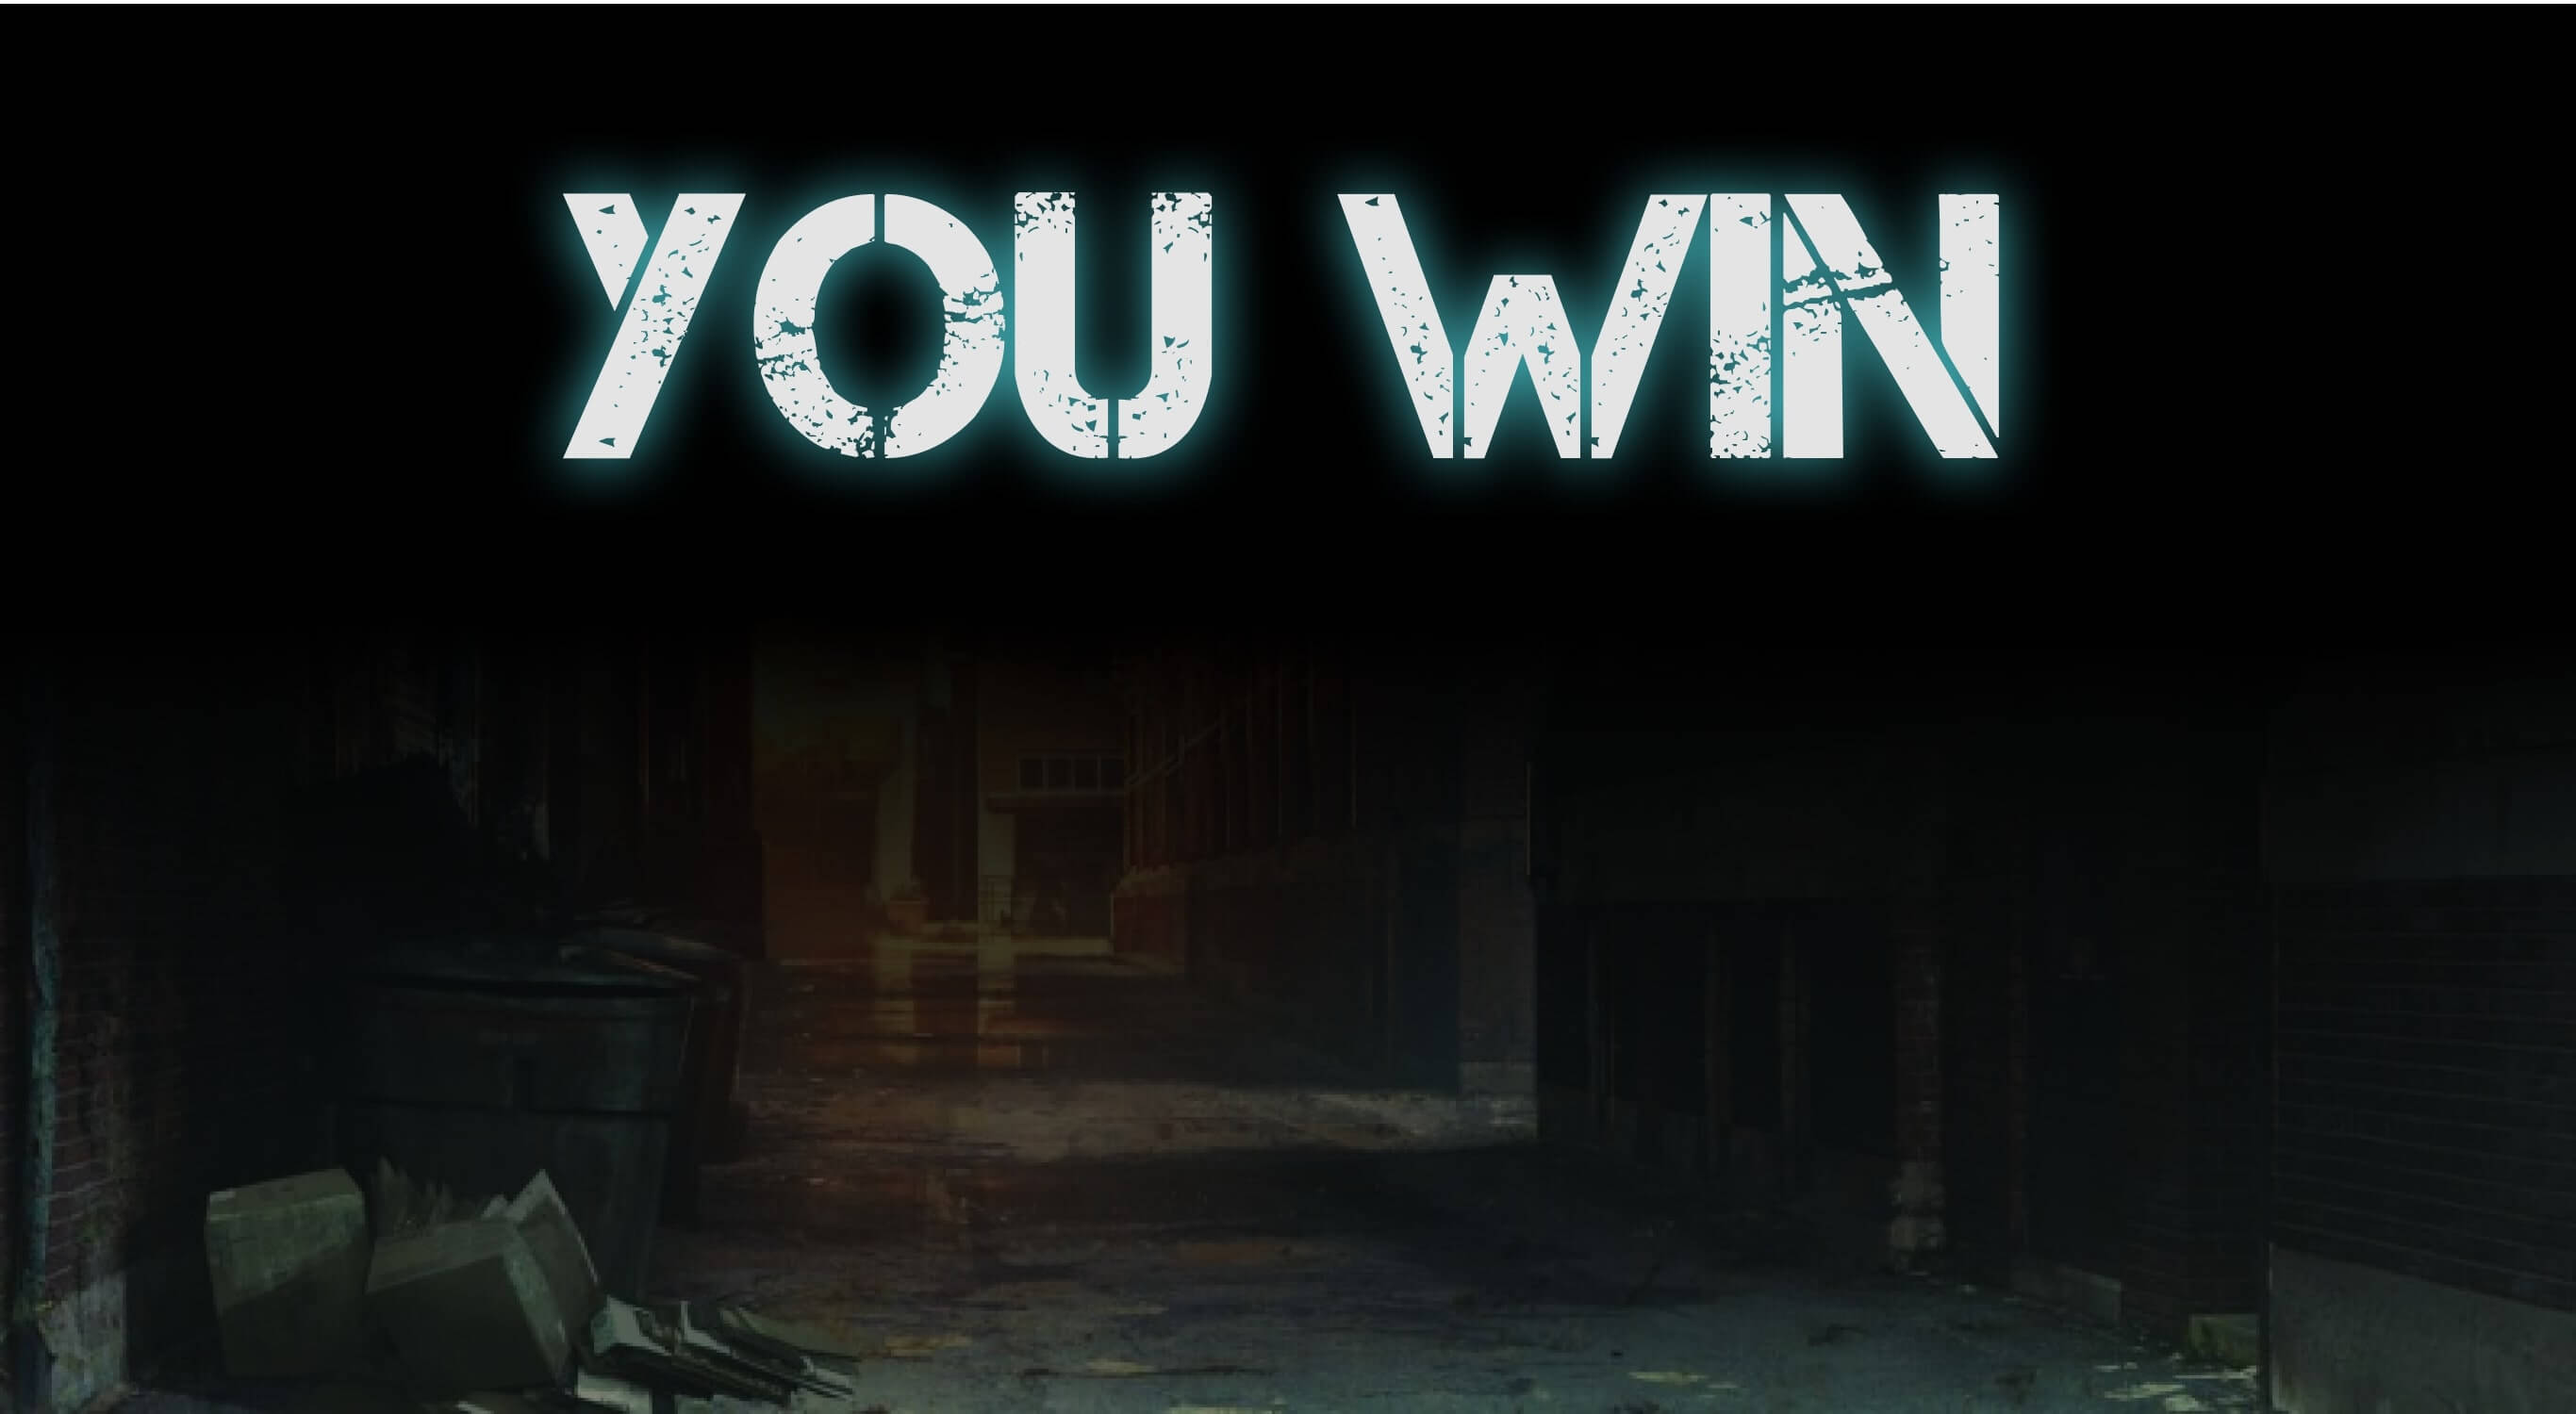
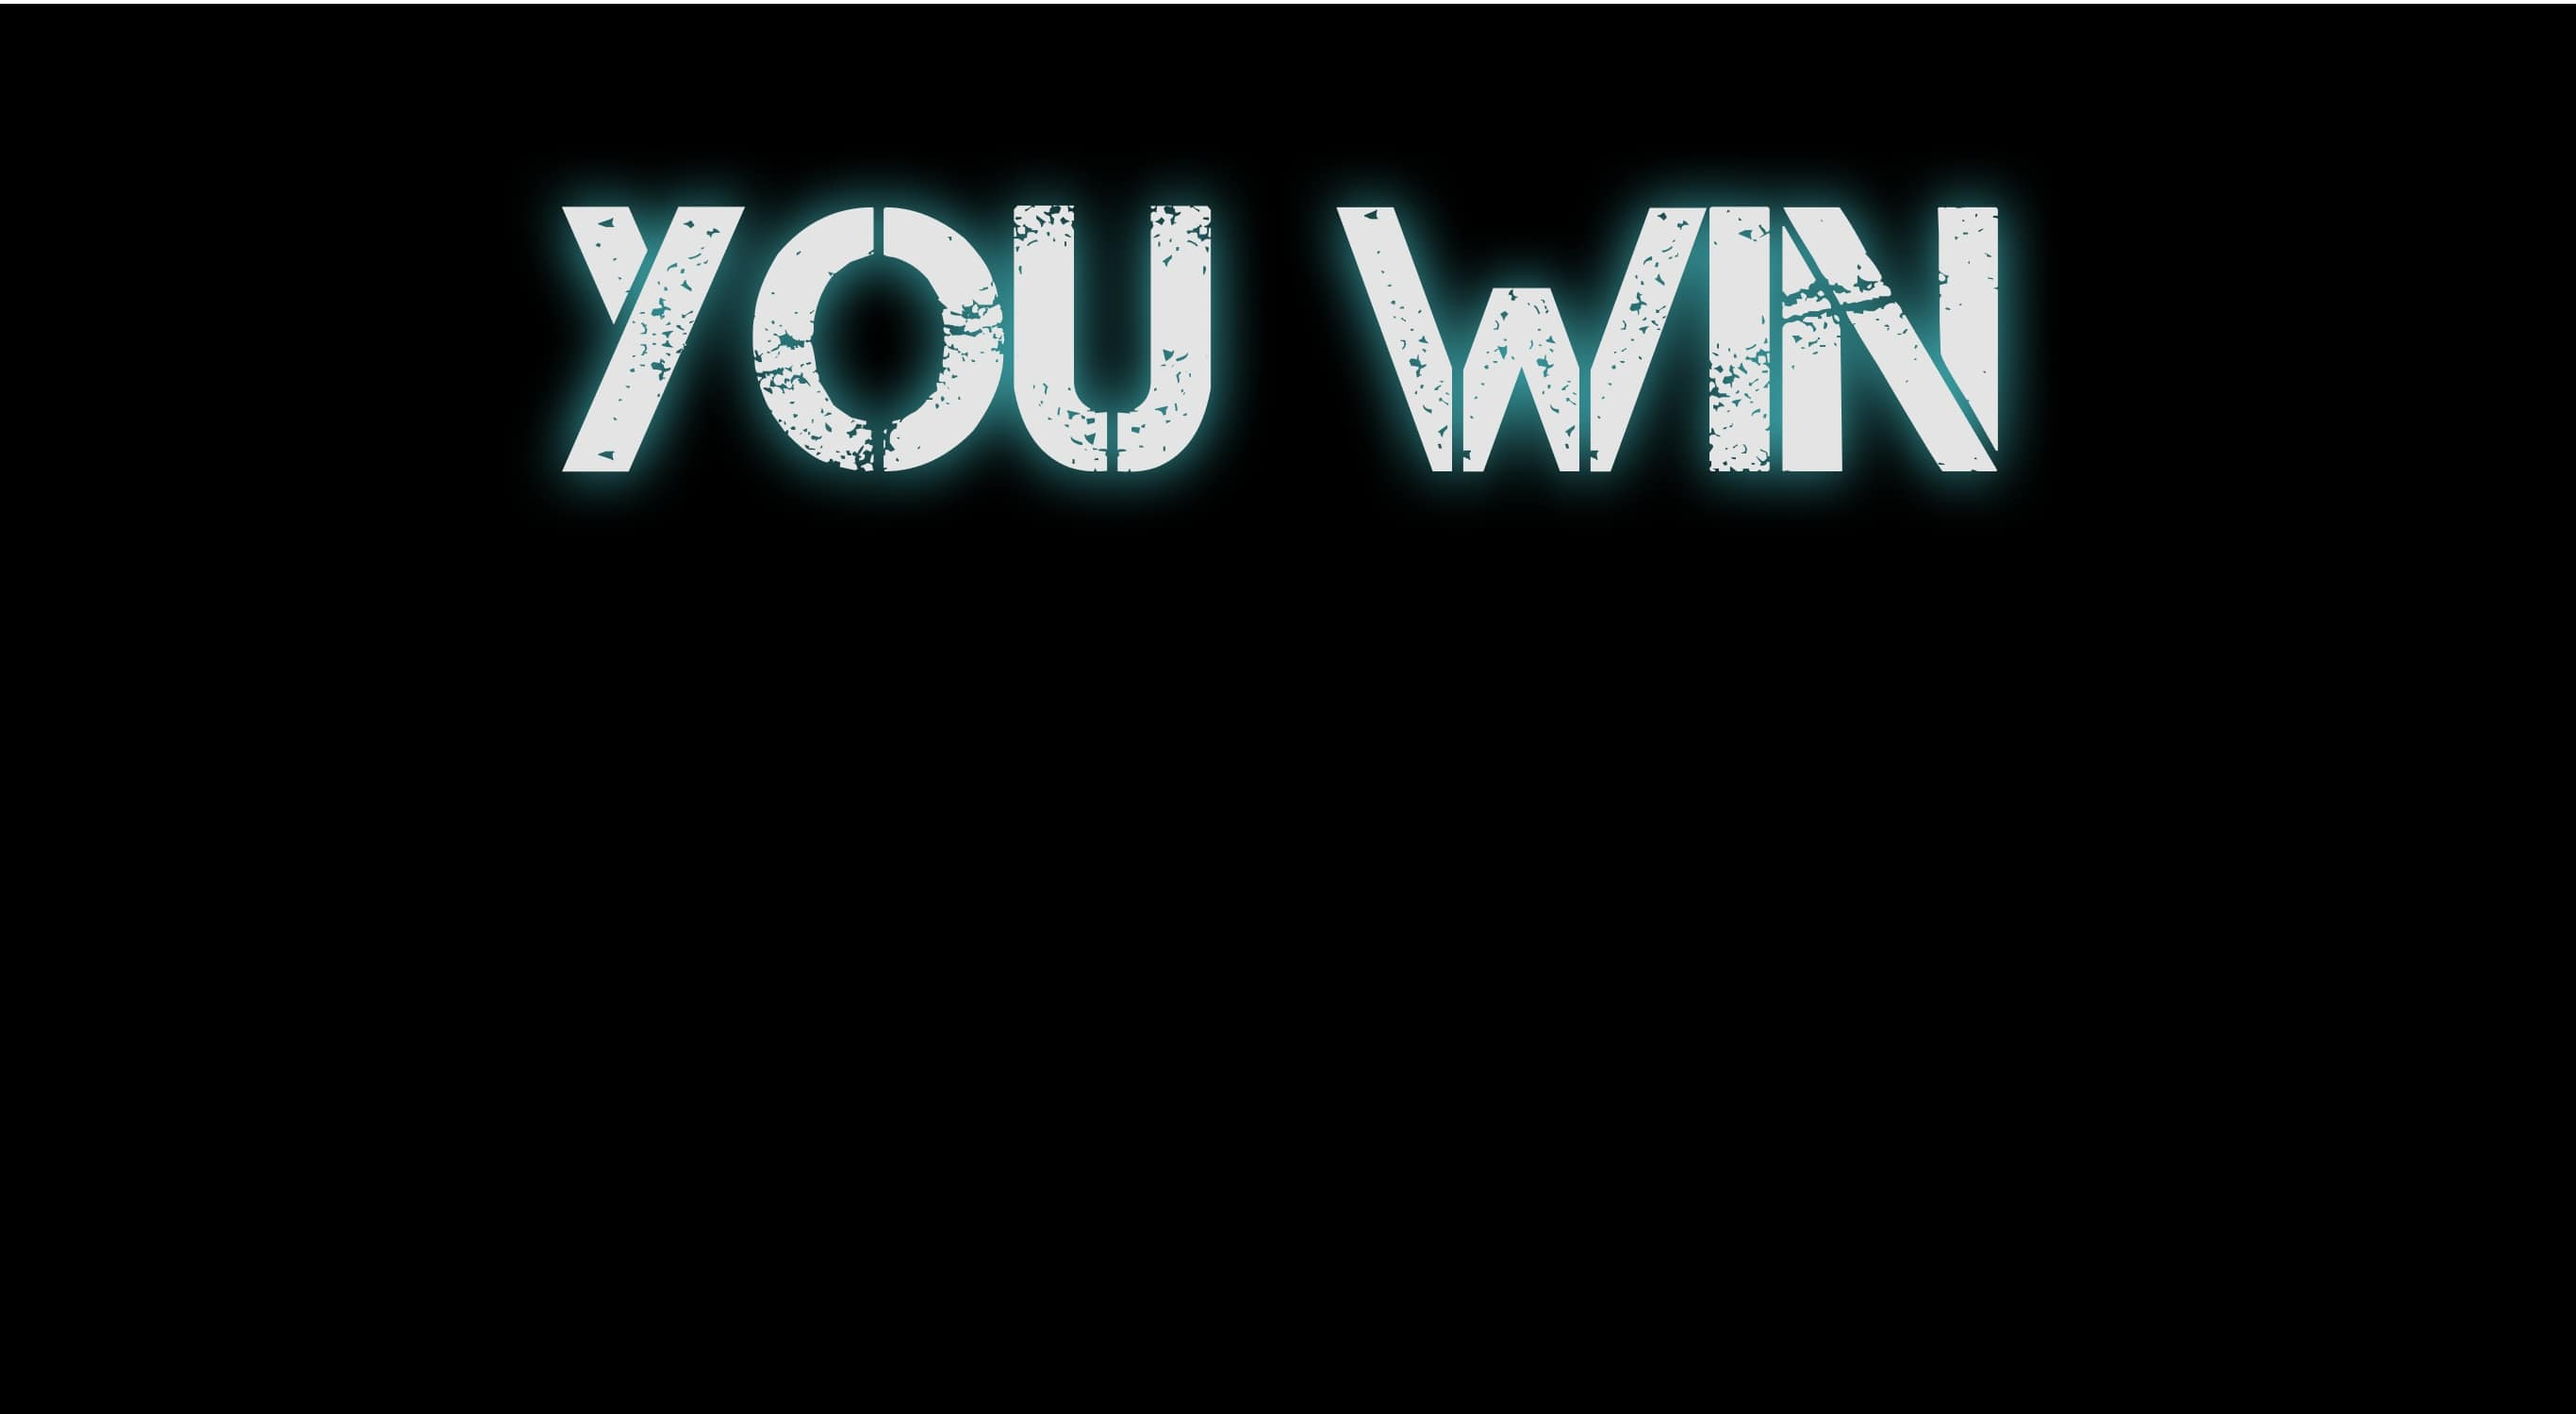
rez

diff --git a/app/components/Win32.vue b/app/components/Win32.vue
@@ -8,7 +8,8 @@
     <router-link class="button" to="/Character"> Recommencer </router-link>
     	<audio autoplay loop>
       <source src="../assets/audio/ApplauseWin.mp3" type="audio/mp3">
-    </audio>
+      </audio>
+      <img class="gif" src='../assets/gif/Victory32.gif'>
   </div>
 </template>
 
@@ -30,6 +31,12 @@
   overflow: hidden;
   background-repeat: no-repeat;
 
+  .gif {
+    position: absolute; 
+    bottom: 60px; 
+    z-index: 1; 
+  }
+
   .text {
     font-family: 'M PLUS Rounded 1c', sans-serif;
     font-size: 30px; 
@@ -38,9 +45,7 @@
     margin-left: 200px; 
     margin-right: 200px; 
     border: 10px solid black;
-    background: rgba(0, 0, 0, 0.56);
     border-radius: 15px 15px 0px 0px;
-
   }
 
   .button {
@@ -54,15 +59,15 @@
     cursor: pointer;
     border: 8px solid rgba(0, 0, 0, 0.1);
     bottom: 60px; 
+    left: 100px; 
     padding: 30px 60px 30px 60px;
     opacity: 0.8; 
-
   }
 
   .button:hover {
       opacity: 1; 
       color: white; 
-      background: #304040;
+      background: #304040; 
     }
 
 }

diff --git a/app/components/Win33.vue b/app/components/Win33.vue
@@ -35,8 +35,7 @@
     position: absolute; 
     bottom: 0px; 
     z-index: 1; 
-
-
+    
   }
 
   .text {
